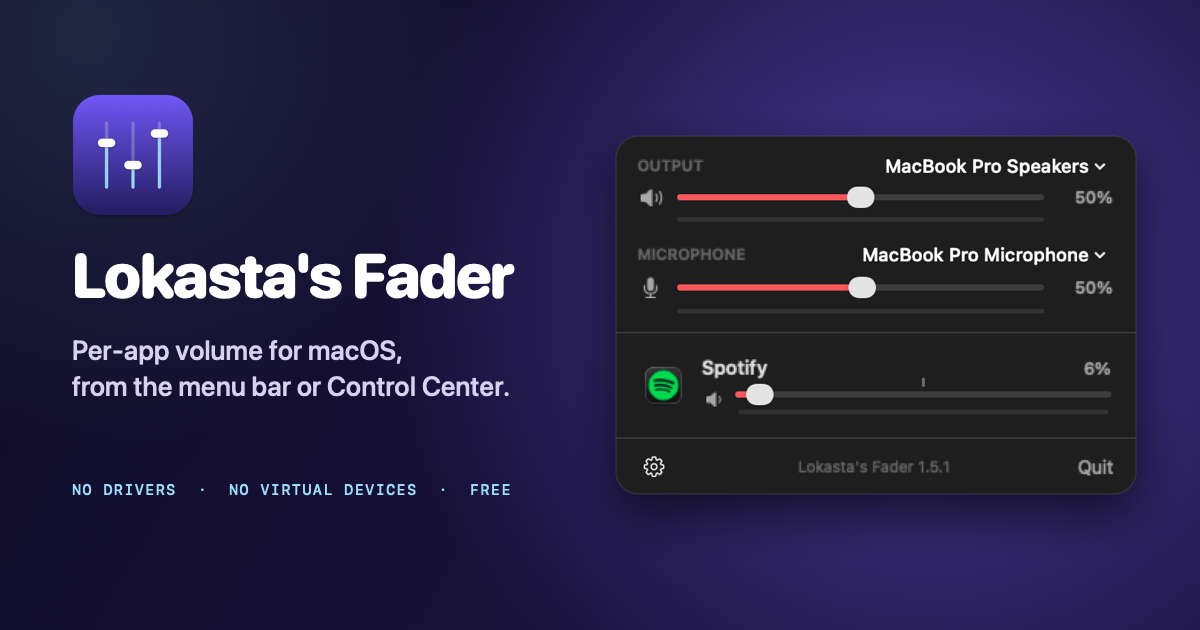
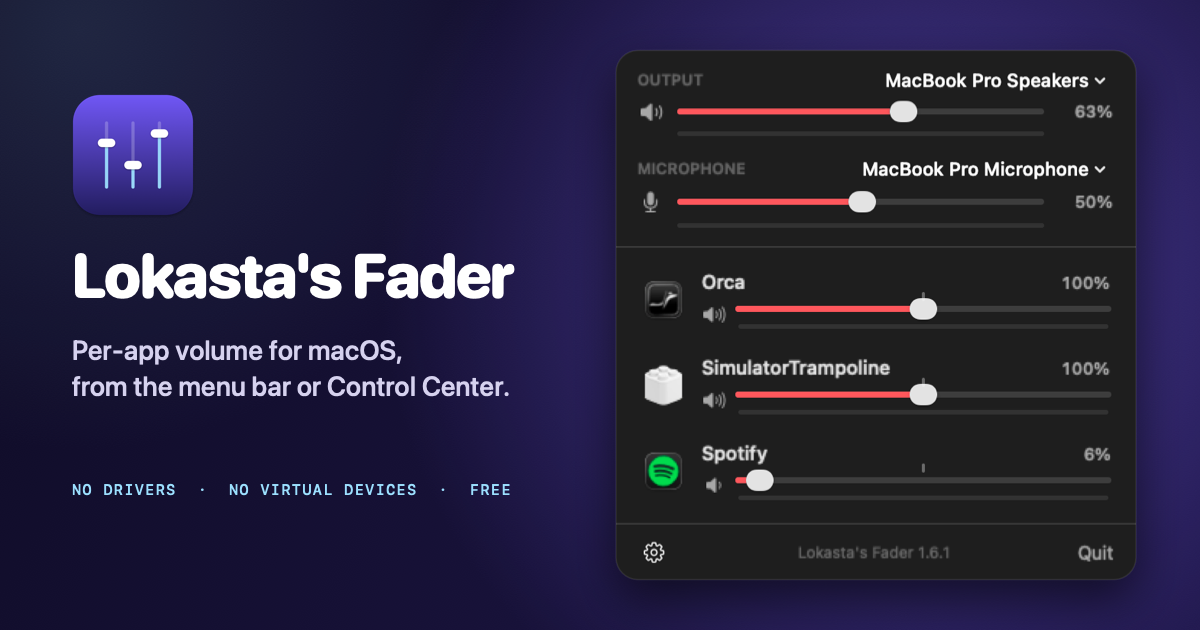
Drop Simulator audio renaming, refresh screenshots for 1.6.1
The helper-owner mapping never matched (the sound comes from the simulated
app, owned by SimulatorTrampoline); keeping the plain name is fine.

diff --git a/Fader/Audio/AudioProcesses.swift b/Fader/Audio/AudioProcesses.swift
@@ -68,12 +68,6 @@ enum AudioProcesses {
         "com.apple.assistantd": ("Siri", "mic.fill"),
     ]
 
-    /// Audio helpers that launchd starts on behalf of an app, so responsibility doesn't point back to it.
-    private static let helperOwners: [(prefix: String, ownerBundleID: String)] = [
-        ("SimulatorTrampoline", "com.apple.iphonesimulator"),
-        ("com.apple.CoreSimulator", "com.apple.iphonesimulator"),
-    ]
-
     static func identity(for process: AudioProcess) -> AudioAppIdentity {
         let pid = process.pid
         let ownerPID = responsiblePID?(pid) ?? pid
@@ -83,12 +77,6 @@ enum AudioProcesses {
                 let key = app.bundleIdentifier ?? "pid:\(candidate)"
                 return AudioAppIdentity(key: key, name: name, bundleID: app.bundleIdentifier, icon: icon)
             }
-        }
-        if let bundleID = process.bundleID,
-           let owner = helperOwners.first(where: { bundleID.hasPrefix($0.prefix) }),
-           let app = NSRunningApplication.runningApplications(withBundleIdentifier: owner.ownerBundleID).first,
-           let name = app.localizedName {
-            return AudioAppIdentity(key: owner.ownerBundleID, name: name, bundleID: owner.ownerBundleID, icon: app.icon ?? NSWorkspace.shared.icon(for: .application))
         }
         if let bundleID = process.bundleID, let service = systemServices[bundleID] {
             return AudioAppIdentity(key: "service:\(service.name)", name: service.name, bundleID: bundleID, icon: symbolIcon(service.symbol))

diff --git a/CHANGELOG.md b/CHANGELOG.md
@@ -7,7 +7,6 @@
 - Landing page in `site/` (single static HTML, no JavaScript), deployed to GitHub Pages by `.github/workflows/pages.yml`. Social card generated by `scripts/make-og-image.swift`.
 - `release.sh` also uploads a stable `LokastasFader.dmg`, so `releases/latest/download/LokastasFader.dmg` always serves the newest build. `PUBLISH=1` creates the GitHub release.
 - The Dictation key (F5) is restored when Fader quits.
-- iOS Simulator audio shows up as "Simulator" instead of `SimulatorTrampoline`.
 
 ## 2026-10-02 -- 1.6.0
 
